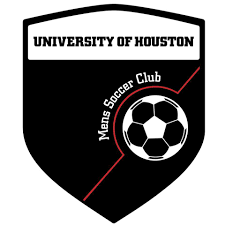
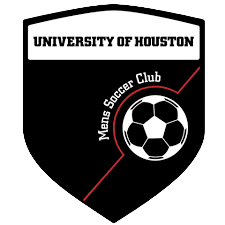
picture change

diff --git a/uhsoccer/frontend/src/components/Navbar.vue b/uhsoccer/frontend/src/components/Navbar.vue
@@ -4,7 +4,7 @@
 
   <div class="flex items-center cursor-pointer"> 
     <span class="text-green-500 text-xl mr-l"></span>
-    <img src="@/assets/crest4.png" alt="Bootstrap" width="100" height="10">
+    <img src="@/assets/crest.png" alt="Bootstrap" width="100" height="10">
     
   </div>
 
